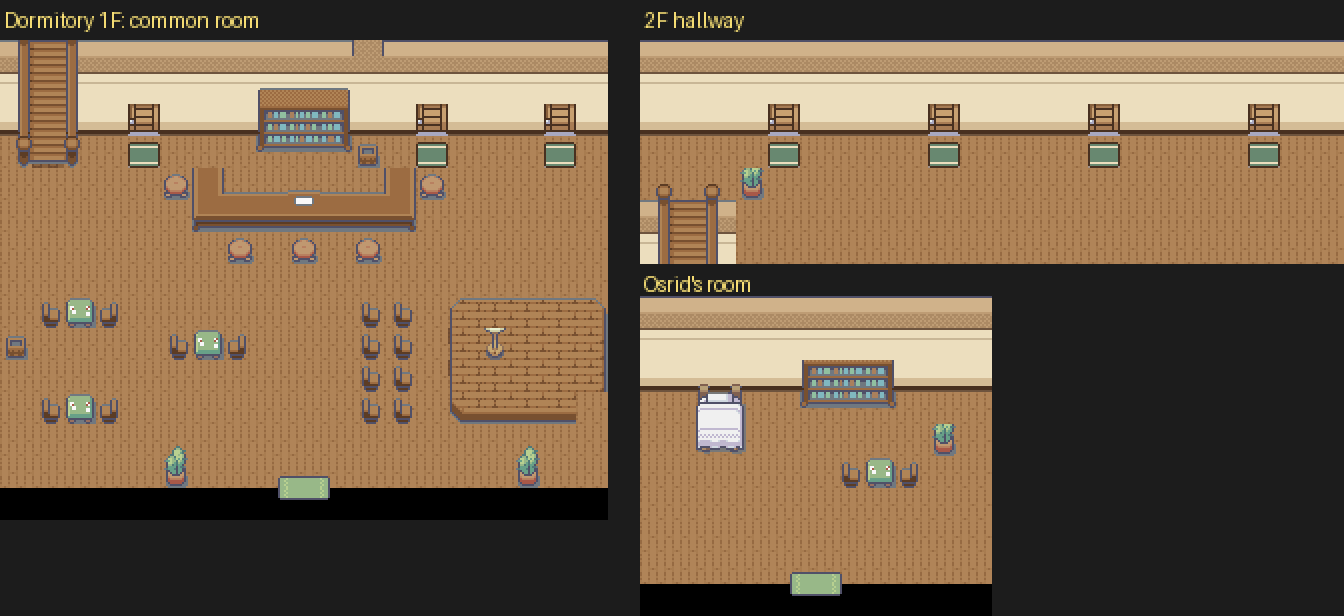
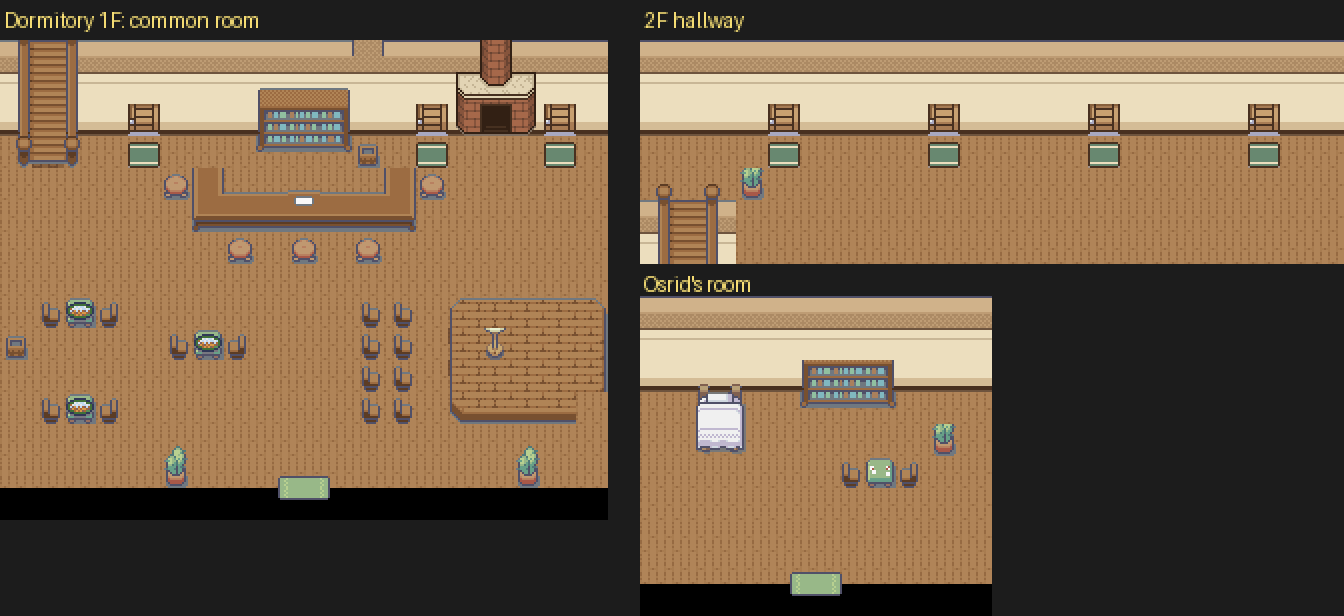
Odyssey hearth as an object, recoloured; cell as storeroom (mockups)
- User: the pasted hearth "isn't integrated well at all". Now only the
  hearth itself (Odyssey top layer: chimney, mantel, brick surround) plus
  the firebox (its stone-floor pixels cleared) is laid over our own wall and
  floor, in a palette recoloured to ours (muted brick, parchment-stone
  mantel, dark-brown outlines). compose_mock.hearth_piece/put_hearth.
- Templar cell mockup leans into "also a storage room" (user): hay bales,
  straw, stored barrels; guards' table kept (user: fine).
- Mockups only; the installed dormitory still has the old block hearth.

Claude-Session: https://claude.ai/code/session_01FHXnfqnedTHLf5QFbB3MCU

diff --git a/tools/monomyth/dormitory/compose_mock.py b/tools/monomyth/dormitory/compose_mock.py
@@ -56,7 +56,32 @@ def fr_layer(ts, mid, layer):
         pal = np.array(ts.pal[v >> 12], np.uint8); y, x = (q // 2) * 8, (q % 2) * 8
         rgb[y:y + 8, x:x + 8] = pal[t]; mask[y:y + 8, x:x + 8] = t != 0
     return rgb, mask
+# The hearth is an object: Odyssey draws it (chimney, mantel, brick surround) on the top layer; only the
+# firebox opening is on the bottom layer, with Odyssey's brick wall and stone floor around it. So we take
+# the top layer + the firebox (its stone-floor pixels cleared) and lay them over OUR wall and floor, in a
+# palette recoloured to ours (user 2026-11-19: the pasted block "isn't integrated well at all").
+HEARTH_PAL = list(FIRE.pal[7])
+for i, c in {1: (196, 180, 148), 3: (170, 152, 120), 15: (226, 212, 180),            # mantel: parchment stone
+             2: (166, 104, 74), 7: (134, 84, 60), 9: (106, 68, 50), 4: (150, 120, 92), 8: (118, 92, 76),   # muted brick
+             13: (50, 32, 20), 11: (70, 48, 32), 10: (88, 64, 50), 12: (70, 52, 42),  # outlines/soot: dark brown
+             5: (128, 112, 98), 6: (110, 96, 84)}.items(): HEARTH_PAL[i] = c
+FIREBOX = (1, 2); FLOOR_IDX = (1, 3, 15)        # firebox tile: drop Odyssey's stone-floor colours
+def hearth_piece(dx, dy):
+    m = HEARTH[dy][dx]; e = FIRE.ents(m)
+    rgb = np.zeros((16, 16, 3), np.uint8); mask = np.zeros((16, 16), bool); pal = np.array(HEARTH_PAL, np.uint8)
+    layers = (0, 1) if (dx, dy) == FIREBOX else (1,)
+    for layer in layers:
+        for q in range(4):
+            v = e[layer * 4 + q]; t = FIRE.tile(v & 0x3FF).copy()
+            if v & 0x400: t = t[:, ::-1]
+            if v & 0x800: t = t[::-1, :]
+            if layer == 0: t[np.isin(t, FLOOR_IDX)] = 0
+            y, x = (q // 2) * 8, (q % 2) * 8; nz = t != 0
+            rgb[y:y + 8, x:x + 8][nz] = pal[t][nz]; mask[y:y + 8, x:x + 8] |= nz
+    return rgb, mask
 def M(src, mid):
+    if src == 'H':                                               # ('H', ((dx, dy), under))
+        (dx, dy), under = mid; out = M(*under).copy(); rgb, m = hearth_piece(dx, dy); out[m] = rgb[m]; return out
     if src == 'F': return FIRE.meta(mid)
     if src == 'Fo':
         oid, under = mid; out = M(*under).copy(); rgb, m = fr_layer(FIRE, oid, 1); out[m] = rgb[m]; return out
@@ -113,6 +138,11 @@ SALOON = [  # rows 9..23 of the Speedwell saloon (the ground floor), 19 wide
  [153,155,155,155,155,203,155,155,196,204,212,155,155,155,155,155,203,155,155],
  [  0,  0,  0,  0,  0,  0,  0,  0,211,214,213,  0,  0,  0,  0,  0,  0,  0,  0]]
 
+def put_hearth(g, x0, y0=0):
+    """The hearth over whatever is there (after the wall/floor treatment, so plain() runs first)."""
+    pg = plain(g)
+    for dy in range(3):
+        for dx in range(3): g[y0 + dy][x0 + dx] = ('H', ((dx, dy), pg[y0 + dy][x0 + dx]))
 DOORS_1F = (4, 13, 17)          # Osrid's door first
 DOORS_2F = (4, 9, 14, 19)
 def floor1():
@@ -129,8 +159,7 @@ def floor1():
     g[9][15] = ('L', (1, 165))                  # the pedestal is one metatile; the speaker stands east of it, facing the chairs
     g[11][18] = ('s', 155)
     # Odyssey brick hearth between the two east doors, and a plate of food on every dining table
-    for dy, r in enumerate(HEARTH):
-        for dx, v in enumerate(r): g[dy][14 + dx] = ('F', v)
+    put_hearth(g, 14)
     for y, row in enumerate(g):
         for x, c in enumerate(row):
             if c == ('s', 176): g[y][x] = ('Fo', (PLATE, ('s', 176)))

diff --git a/tools/odyssey/pelluca_odyssey_mock.py b/tools/odyssey/pelluca_odyssey_mock.py
@@ -22,8 +22,10 @@ def put(img, x, y, src, mid, whole=False):
     rgb, m = CM.fr_layer(ts, mid, 1); blk = img[y * 16:y * 16 + 16, x * 16:x * 16 + 16]; blk[m] = rgb[m]
 
 def hearth(img, x0, y0):
-    for dy, r in enumerate(CM.HEARTH):
-        for dx, v in enumerate(r): put(img, x0 + dx, y0 + dy, 'F', v, whole=True)
+    """The hearth as an object over what is there (compose_mock.hearth_piece: top layer + firebox, recoloured)."""
+    for dy in range(3):
+        for dx in range(3):
+            rgb, m = CM.hearth_piece(dx, dy); blk = img[(y0 + dy) * 16:(y0 + dy) * 16 + 16, (x0 + dx) * 16:(x0 + dx) * 16 + 16]; blk[m] = rgb[m]
 
 def tavern():
     a = ours('LAYOUT_PELLUCA_TAVERN'); b = a.copy()
@@ -34,8 +36,10 @@ def tavern():
 
 def cell():
     a = ours('LAYOUT_PELLUCA_TEMPLAR_MONASTERY'); b = a.copy()
-    put(b, 2, 3, 'R', 642); put(b, 3, 3, 'R', 642)       # hay bales (bedding) in the cell
-    for x, y in ((4, 4), (8, 3), (9, 4), (10, 3)): put(b, x, y, 'R', 649)    # loose straw
+    # the cell doubles as a storeroom (user: prisoners are rare, there is very little crime in Pelluca)
+    for x, y in ((2, 3), (3, 3), (2, 4)): put(b, x, y, 'R', 642)            # hay bales
+    for x, y in ((4, 4), (6, 3), (7, 4)): put(b, x, y, 'R', 649)            # loose straw
+    for x in (9, 10): put(b, x, 3, 'R', 648); put(b, x, 4, 'R', 656)        # stored barrels
     for (x, y), m in {(8, 8): 643, (9, 8): 644, (8, 9): 651, (9, 9): 652}.items(): put(b, x, y, 'R', m)  # guards' table
     for x, y in ((7, 9), (10, 9)): put(b, x, y, 'R', 650)                    # stools
     return a, b
@@ -50,8 +54,7 @@ def osrid_room():
             elif g[y][x] not in (('s', 216), ('s', 217), ('s', 218), ('s', 224), ('s', 225), ('s', 226)): g[y][x] = ('s', 168 if y == 2 else 155)
     for dy, r in enumerate([[216, 217, 218], [224, 225, 226], [232, 233, 234]]):
         for dx, v in enumerate(r): g[2 + dy][1 + dx] = ('s', v)
-    for dy, r in enumerate(CM.HEARTH):
-        for dx, v in enumerate(r): g[dy][4 + dx] = ('F', v)
+    CM.put_hearth(g, 4)
     for dx, v in enumerate((181, 182, 183)): g[2][7 + dx] = ('s', v)
     for dx, v in enumerate((189, 190, 191)): g[3][7 + dx] = ('s', v)
     g[6][6], g[6][7], g[6][8] = ('s', 167), ('s', 176), ('s', 159)
